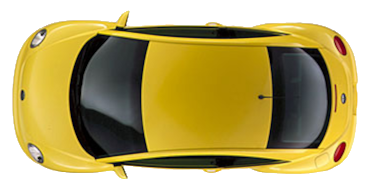
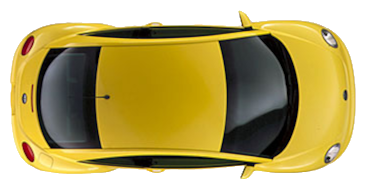
Added steerinf

diff --git a/ui.py b/ui.py
@@ -1,5 +1,14 @@
 import pygame
-import sys
+import numpy as np
+from car import Car
+from enum import Enum, auto
+
+
+class Event(Enum):
+    QUIT = auto()
+    SW_LEFT = auto()
+    SW_RIGHT = auto()
+    NO_EVENT = auto()
 
 
 class Color:
@@ -10,29 +19,35 @@ class Color:
 
 
 class UI:
-    def __init__(self, width: int, height: int) -> None:
-        pygame.init()
+    def __init__(self, width: int, height: int, fps: int) -> None:
         self.clock = pygame.time.Clock()
         self.screen = pygame.display.set_mode((width, height))
-        self.car = pygame.transform.rotate(pygame.image.load("car.png"), -90)
         self.width = width
         self.height = height
+        self.fps = fps
 
-    def event_handler(self) -> None:
+    def event_handler(self) -> Event:
+        keys = pygame.key.get_pressed()
         for event in pygame.event.get():
             if event.type == pygame.QUIT:
-                pygame.quit()
-                sys.exit()
+                return Event.QUIT
+            elif event.type == pygame.KEYDOWN:
+                if event.key == pygame.K_q:
+                    return Event.QUIT
 
-        # Keyboard input
-        keys = pygame.key.get_pressed()
-        if keys[pygame.K_a] or keys[pygame.K_LEFT]:
-            print("Left")
-        elif keys[pygame.K_d] or keys[pygame.K_RIGHT]:
-            print("Right")
+        if keys[pygame.K_LEFT] or keys[pygame.K_a]:
+            return Event.SW_LEFT
+        elif keys[pygame.K_RIGHT] or keys[pygame.K_d]:
+            return Event.SW_RIGHT
 
-    def _draw_img(self, img: pygame.Surface, x: int, y: int) -> None:
-        self.screen.blit(img, (x - img.get_width() // 2, y - img.get_height() // 2))
+        return Event.NO_EVENT
+
+    def _draw_img(
+        self, img: pygame.Surface, x: int, y: int, orientation: float
+    ) -> None:
+        rotated_img = pygame.transform.rotate(img, -np.degrees(orientation))
+        rect = rotated_img.get_rect(center=(x, y))
+        self.screen.blit(rotated_img, rect.topleft)
 
     def draw_road(self) -> None:
         # Draw grass on both sides
@@ -56,11 +71,9 @@ class UI:
             x = grass_width + i * lane_width
             pygame.draw.line(self.screen, Color.WHITE, (x, 0), (x, self.height), 5)
 
-    def draw(self) -> None:
-        self.screen.fill(Color.WHITE)
-
+    def draw(self, car: Car) -> None:
         self.draw_road()
-        self._draw_img(self.car, self.width // 2, self.height // 1.5)  
+        self._draw_img(car.image, car.x, self.height // 2, -car.orientation)
 
         pygame.display.flip()
-        self.clock.tick(60)
+        self.clock.tick(self.fps)

diff --git a/car.py b/car.py
@@ -1,0 +1,57 @@
+import pygame
+import numpy as np
+
+
+class Car:
+    def __init__(self, x: int, y: int) -> None:
+        self.image = pygame.image.load("car.png")
+        self.wheel_base = 2.9  # Wheelbase 
+        self.state = np.array([x, y, np.pi / 2, 0.0])
+
+    @property
+    def x(self) -> float:
+        return self.state[0]
+
+    @property
+    def y(self) -> float:
+        return self.state[1]
+
+    @property
+    def orientation(self) -> float:
+        return self.state[2]
+
+    @property
+    def steering_angle(self) -> float:
+        return self.state[3]
+
+    @staticmethod
+    def get_state_var(state: np.ndarray, var: str) -> float:
+        idx = ["x", "y", "theta", "v", "phi"].index(var)
+        return state[idx]
+
+    def kinematics_model(self, u: np.ndarray) -> np.ndarray:
+        A = np.array(
+            [
+                [np.cos(self.orientation), 0],
+                [np.sin(self.orientation), 0],
+                [np.tan(self.steering_angle) / self.wheel_base, 0],
+                [0, 1],
+            ]
+        )
+        print(f"u: {u}\n")
+
+        return A @ u
+
+    def integrate_kinematics(self, d_state: np.ndarray, dt: float) -> None:
+        self.state += d_state * dt
+
+        # Constrain steering angle to be between -pi/4 and pi/4
+        self.state[3] = np.clip(self.state[3], -np.pi / 4, np.pi / 4)
+
+    def draw(self, screen: pygame.Surface) -> None:
+        rotated_image = pygame.transform.rotate(self.image, np.degrees(self.theta))
+        rect = rotated_image.get_rect(center=(self.x, self.y))
+        screen.blit(rotated_image, rect.topleft)
+
+    def set_velocity(self, v: float) -> None:
+        self.v = v

diff --git a/main.py b/main.py
@@ -1,10 +1,54 @@
+from ui import UI, Event
+from car import Car
+import numpy as np
 import pygame
-from ui import UI 
+
+SCREEN_WIDTH = 1400
+SCREEN_HEIGHT = 1600
+
+CAR_SPEED = 330 
+SW_TURN_SPEED = 0.03 
+FPS = 60
+DT = 1 / FPS
 
 
-ui = UI(1400, 1600)
+def main() -> None:
+    ui = UI(SCREEN_WIDTH, SCREEN_HEIGHT, FPS)
+    car = Car(SCREEN_WIDTH // 2, SCREEN_HEIGHT // 2)
+    pygame.init()
 
-running = True
-while running:
-    ui.event_handler()
-    ui.draw()
+    # Initialize u outside the loop to persist across iterations
+    u = np.array([CAR_SPEED, 0])  # Persistent control input [v, ws]
+
+    while True:
+        event = ui.event_handler()
+
+        # Check for events (keyboard input or quit)
+        match event:
+            case Event.QUIT:
+                break
+            case Event.SW_LEFT:
+                print("SW_LEFT")
+                u = np.array([CAR_SPEED, SW_TURN_SPEED])  # Turn left
+            case Event.SW_RIGHT:
+                print("SW_RIGHT")
+                u = np.array([CAR_SPEED, -SW_TURN_SPEED])  # Turn left
+            case Event.NO_EVENT:
+                u = np.array([CAR_SPEED, -car.steering_angle])  # Go straight
+
+        # Debug: Print the control input to see the changes
+        print("Control input u:", u)
+
+        # Update car state
+        d_state = car.kinematics_model(u)
+        car.integrate_kinematics(d_state, DT)
+
+        # Draw updated state
+        ui.draw(car)
+
+    pygame.quit()
+
+
+if __name__ == "__main__":
+    main()
+
